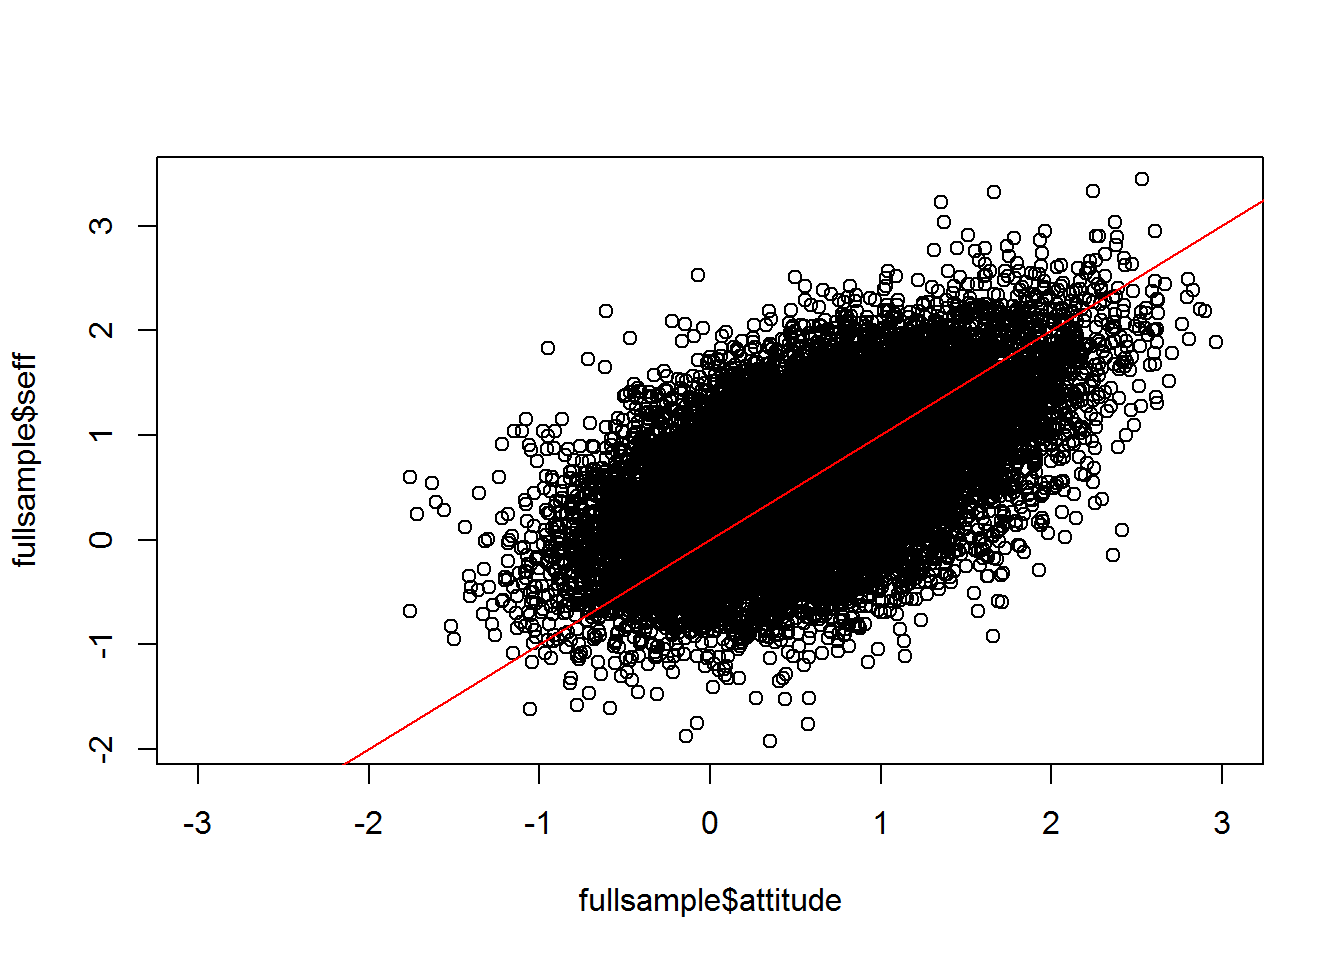
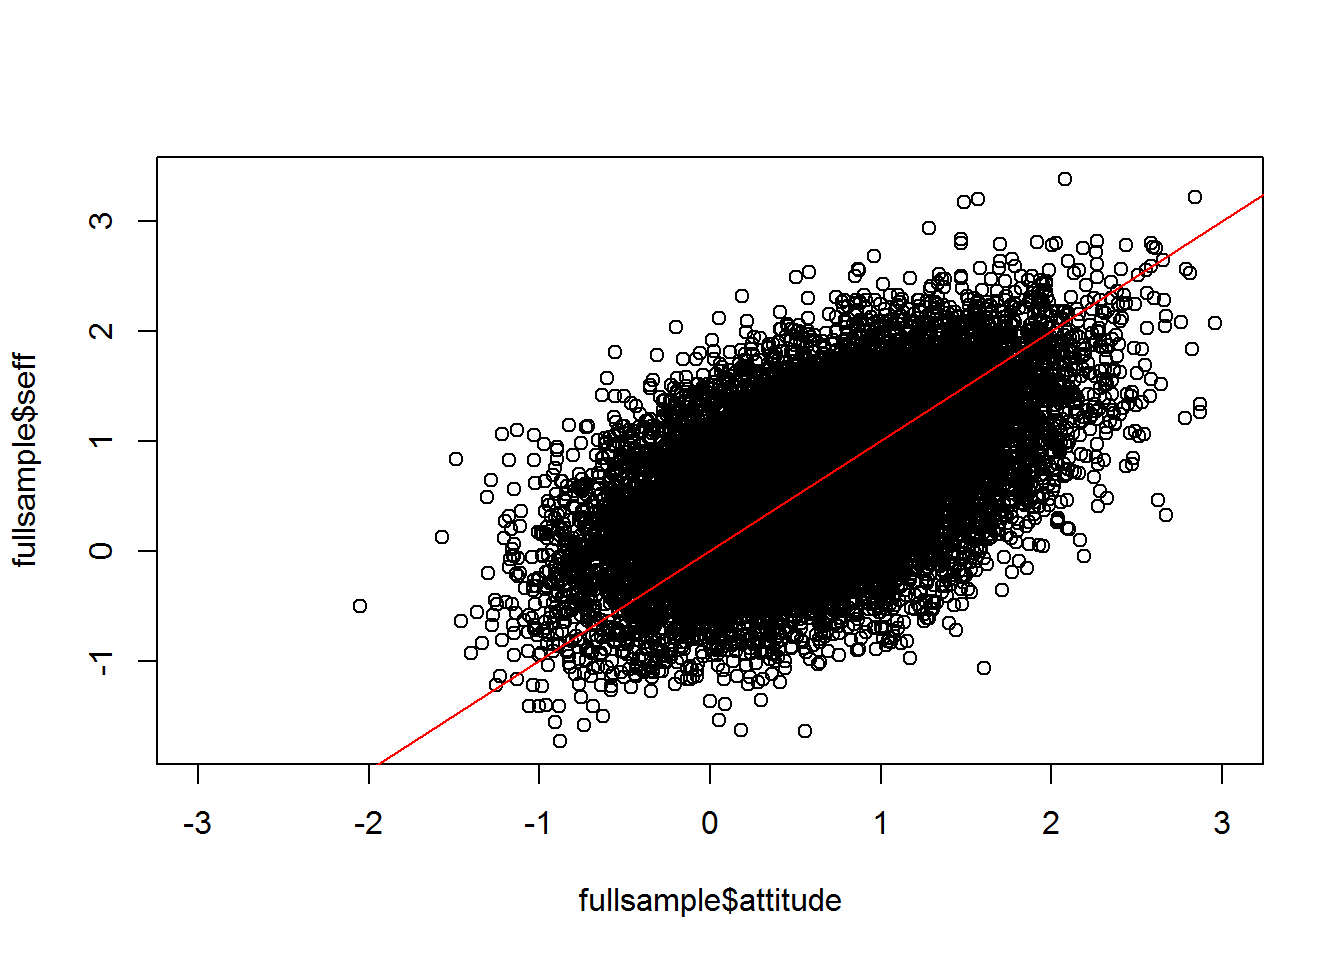
encoding nightmare ad infinitum

diff --git a/docs/determinants_RMD.html b/docs/determinants_RMD.html
@@ -9,7 +9,6 @@
 <meta name="generator" content="pandoc" />
 
 
-<meta name="author" content="Matti Heino" />
 
 
 <title>Determining determinant importance</title>
@@ -312,7 +311,6 @@ div.tocify {
 
 
 <h1 class="title toc-ignore">Determining determinant importance</h1>
-<h4 class="author"><em>Matti Heino</em></h4>
 
 </div>
 
@@ -331,7 +329,7 @@ div.tocify {
 <li><em>“Earplugs are easy to carry.”</em></li>
 <li><em>“Earplugs hinder conversation.” (reverse coded)</em></li>
 </ul>
-<p>(note: if you see weird symbols above, it means I haven’t managed to fix the endless encoding problems yet)</p>
+<p>(note: if you see weird symbols above, it means I haven’t managed to fix the encoding nightmare yet)</p>
 </div>
 <div id="the-simulation" class="section level1">
 <h1>The simulation</h1>
@@ -396,27 +394,27 @@ noexpertsample &lt;- makeScales(data.frame(noexpertsample), scales) %&gt;% data.
 <p>Here’s the correlation matrix for the sample that <strong>includes experts</strong>, as well as a scatterplot of attitude on the x-axis and self-efficacy on the y-axis:</p>
 <pre class="r"><code>expertsample %&gt;% dplyr::select(attitude, seff, outcome) %&gt;% cor() %&gt;% round(3)</code></pre>
 <pre><code>##          attitude  seff outcome
-## attitude    1.000 0.662   0.714
-## seff        0.662 1.000   0.909
-## outcome     0.714 0.909   1.000</code></pre>
+## attitude    1.000 0.651   0.696
+## seff        0.651 1.000   0.906
+## outcome     0.696 0.906   1.000</code></pre>
 <pre class="r"><code>plot(expertsample$attitude, expertsample$seff, xlim = c(-3, 3))
 lines(x = c(-10, 10), y = c(-10, 10), col = &quot;red&quot;)</code></pre>
 <p><img src="determinants_RMD_files/figure-html/unnamed-chunk-1-1.png" width="672" /></p>
 <p>This is for the sample that <strong>didn’t include experts</strong>:</p>
 <pre class="r"><code>noexpertsample %&gt;% dplyr::select(attitude, seff, outcome) %&gt;% cor() %&gt;% round(3)</code></pre>
 <pre><code>##          attitude  seff outcome
-## attitude    1.000 0.351   0.695
-## seff        0.351 1.000   0.917
-## outcome     0.695 0.917   1.000</code></pre>
+## attitude    1.000 0.354   0.699
+## seff        0.354 1.000   0.916
+## outcome     0.699 0.916   1.000</code></pre>
 <pre class="r"><code>plot(noexpertsample$attitude, noexpertsample$seff, xlim = c(-3, 3))
 lines(x = c(-10, 10), y = c(-10, 10), col = &quot;red&quot;)</code></pre>
 <p><img src="determinants_RMD_files/figure-html/unnamed-chunk-2-1.png" width="672" /></p>
 <p>And here’s the <strong>combined sample</strong>:</p>
 <pre class="r"><code>fullsample %&gt;% dplyr::select(attitude, seff, outcome) %&gt;% cor() %&gt;% round(3)</code></pre>
 <pre><code>##          attitude  seff outcome
-## attitude    1.000 0.541   0.689
-## seff        0.541 1.000   0.894
-## outcome     0.689 0.894   1.000</code></pre>
+## attitude    1.000 0.535   0.682
+## seff        0.535 1.000   0.890
+## outcome     0.682 0.890   1.000</code></pre>
 <pre class="r"><code>plot(fullsample$attitude, fullsample$seff, xlim = c(-3, 3))
 lines(x = c(-10, 10), y = c(-10, 10), col = &quot;red&quot;)</code></pre>
 <p><img src="determinants_RMD_files/figure-html/unnamed-chunk-3-1.png" width="672" /></p>
@@ -428,17 +426,17 @@ lines(x = c(-10, 10), y = c(-10, 10), col = &quot;red&quot;)</code></pre>
 <pre class="r"><code>m.expert &lt;- lm(scale(outcome) ~ scale(attitude) + scale(seff), data = expertsample) 
 m.expert$coefficients %&gt;% round(3)</code></pre>
 <pre><code>##     (Intercept) scale(attitude)     scale(seff) 
-##           0.000           0.200           0.776</code></pre>
+##           0.000           0.185           0.785</code></pre>
 <p>And the sample with no experts:</p>
 <pre class="r"><code>m.noexpert &lt;- lm(scale(outcome) ~ scale(attitude) + scale(seff), data = noexpertsample) 
 m.noexpert$coefficients %&gt;% round(3)</code></pre>
 <pre><code>##     (Intercept) scale(attitude)     scale(seff) 
-##           0.000           0.425           0.768</code></pre>
+##           0.000           0.429           0.764</code></pre>
 <p>… And finally, the full sample:</p>
 <pre class="r"><code>m.full &lt;- lm(scale(outcome) ~ scale(attitude) + scale(seff), data = fullsample)
 m.full$coefficients %&gt;% round(3)</code></pre>
 <pre><code>##     (Intercept) scale(attitude)     scale(seff) 
-##           0.000           0.289           0.737</code></pre>
+##           0.000           0.288           0.736</code></pre>
 </div>
 <div id="conclusion" class="section level2">
 <h2>Conclusion</h2>
